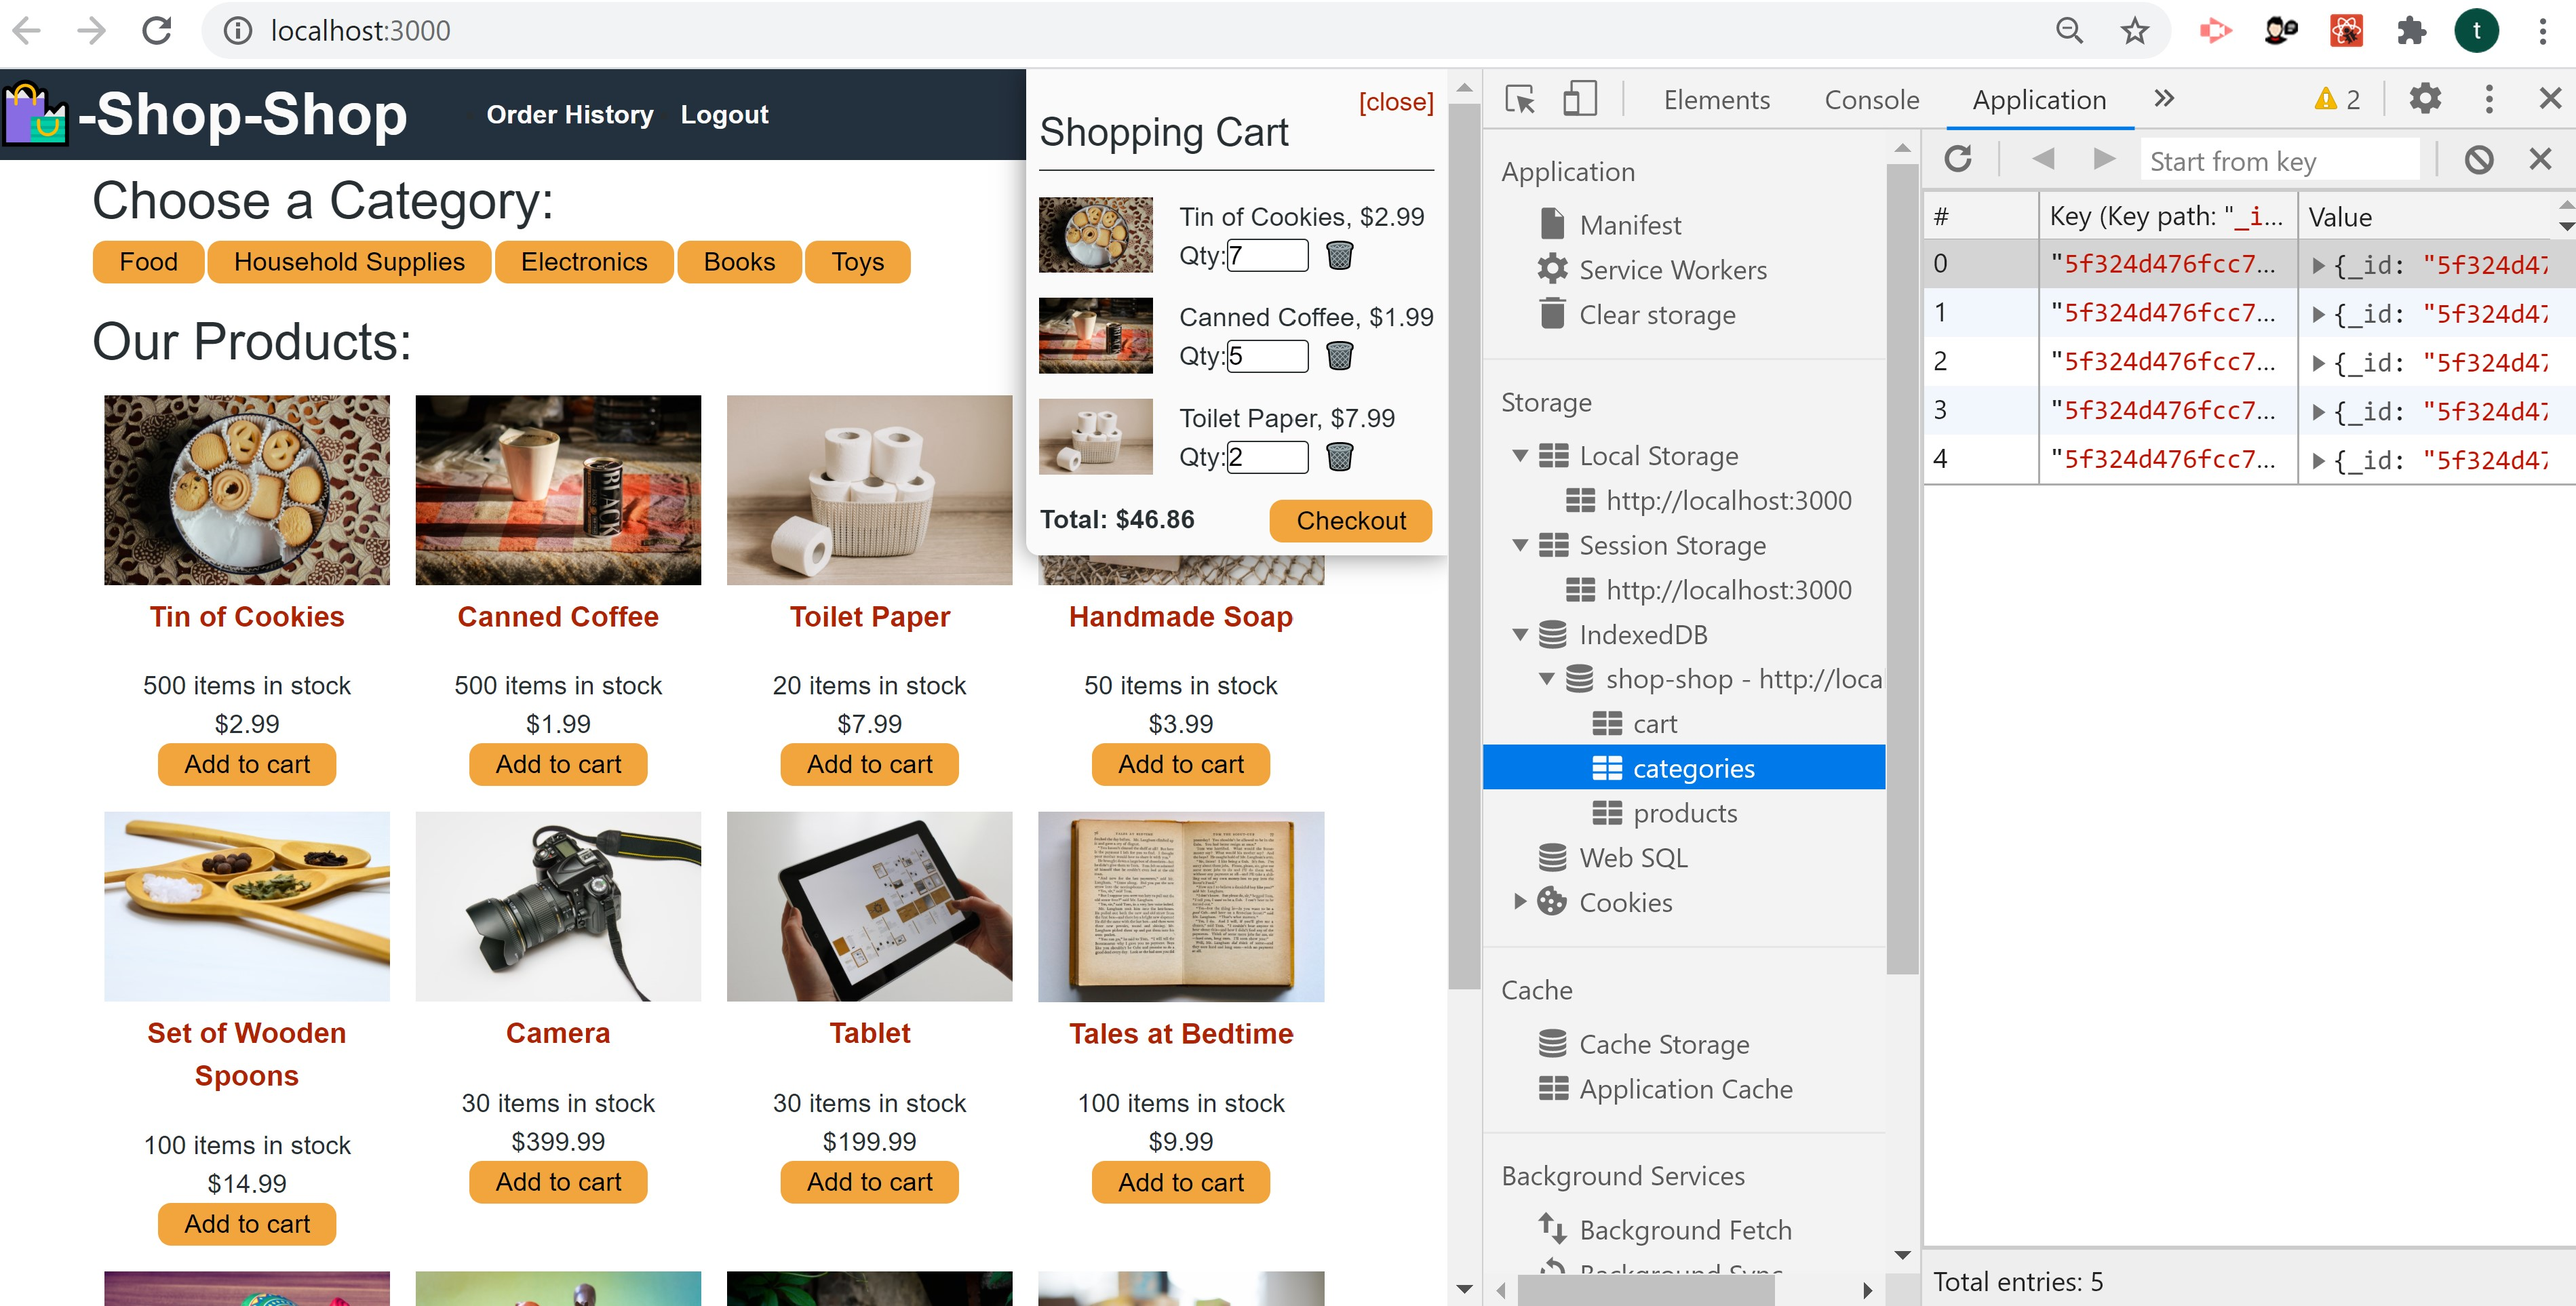
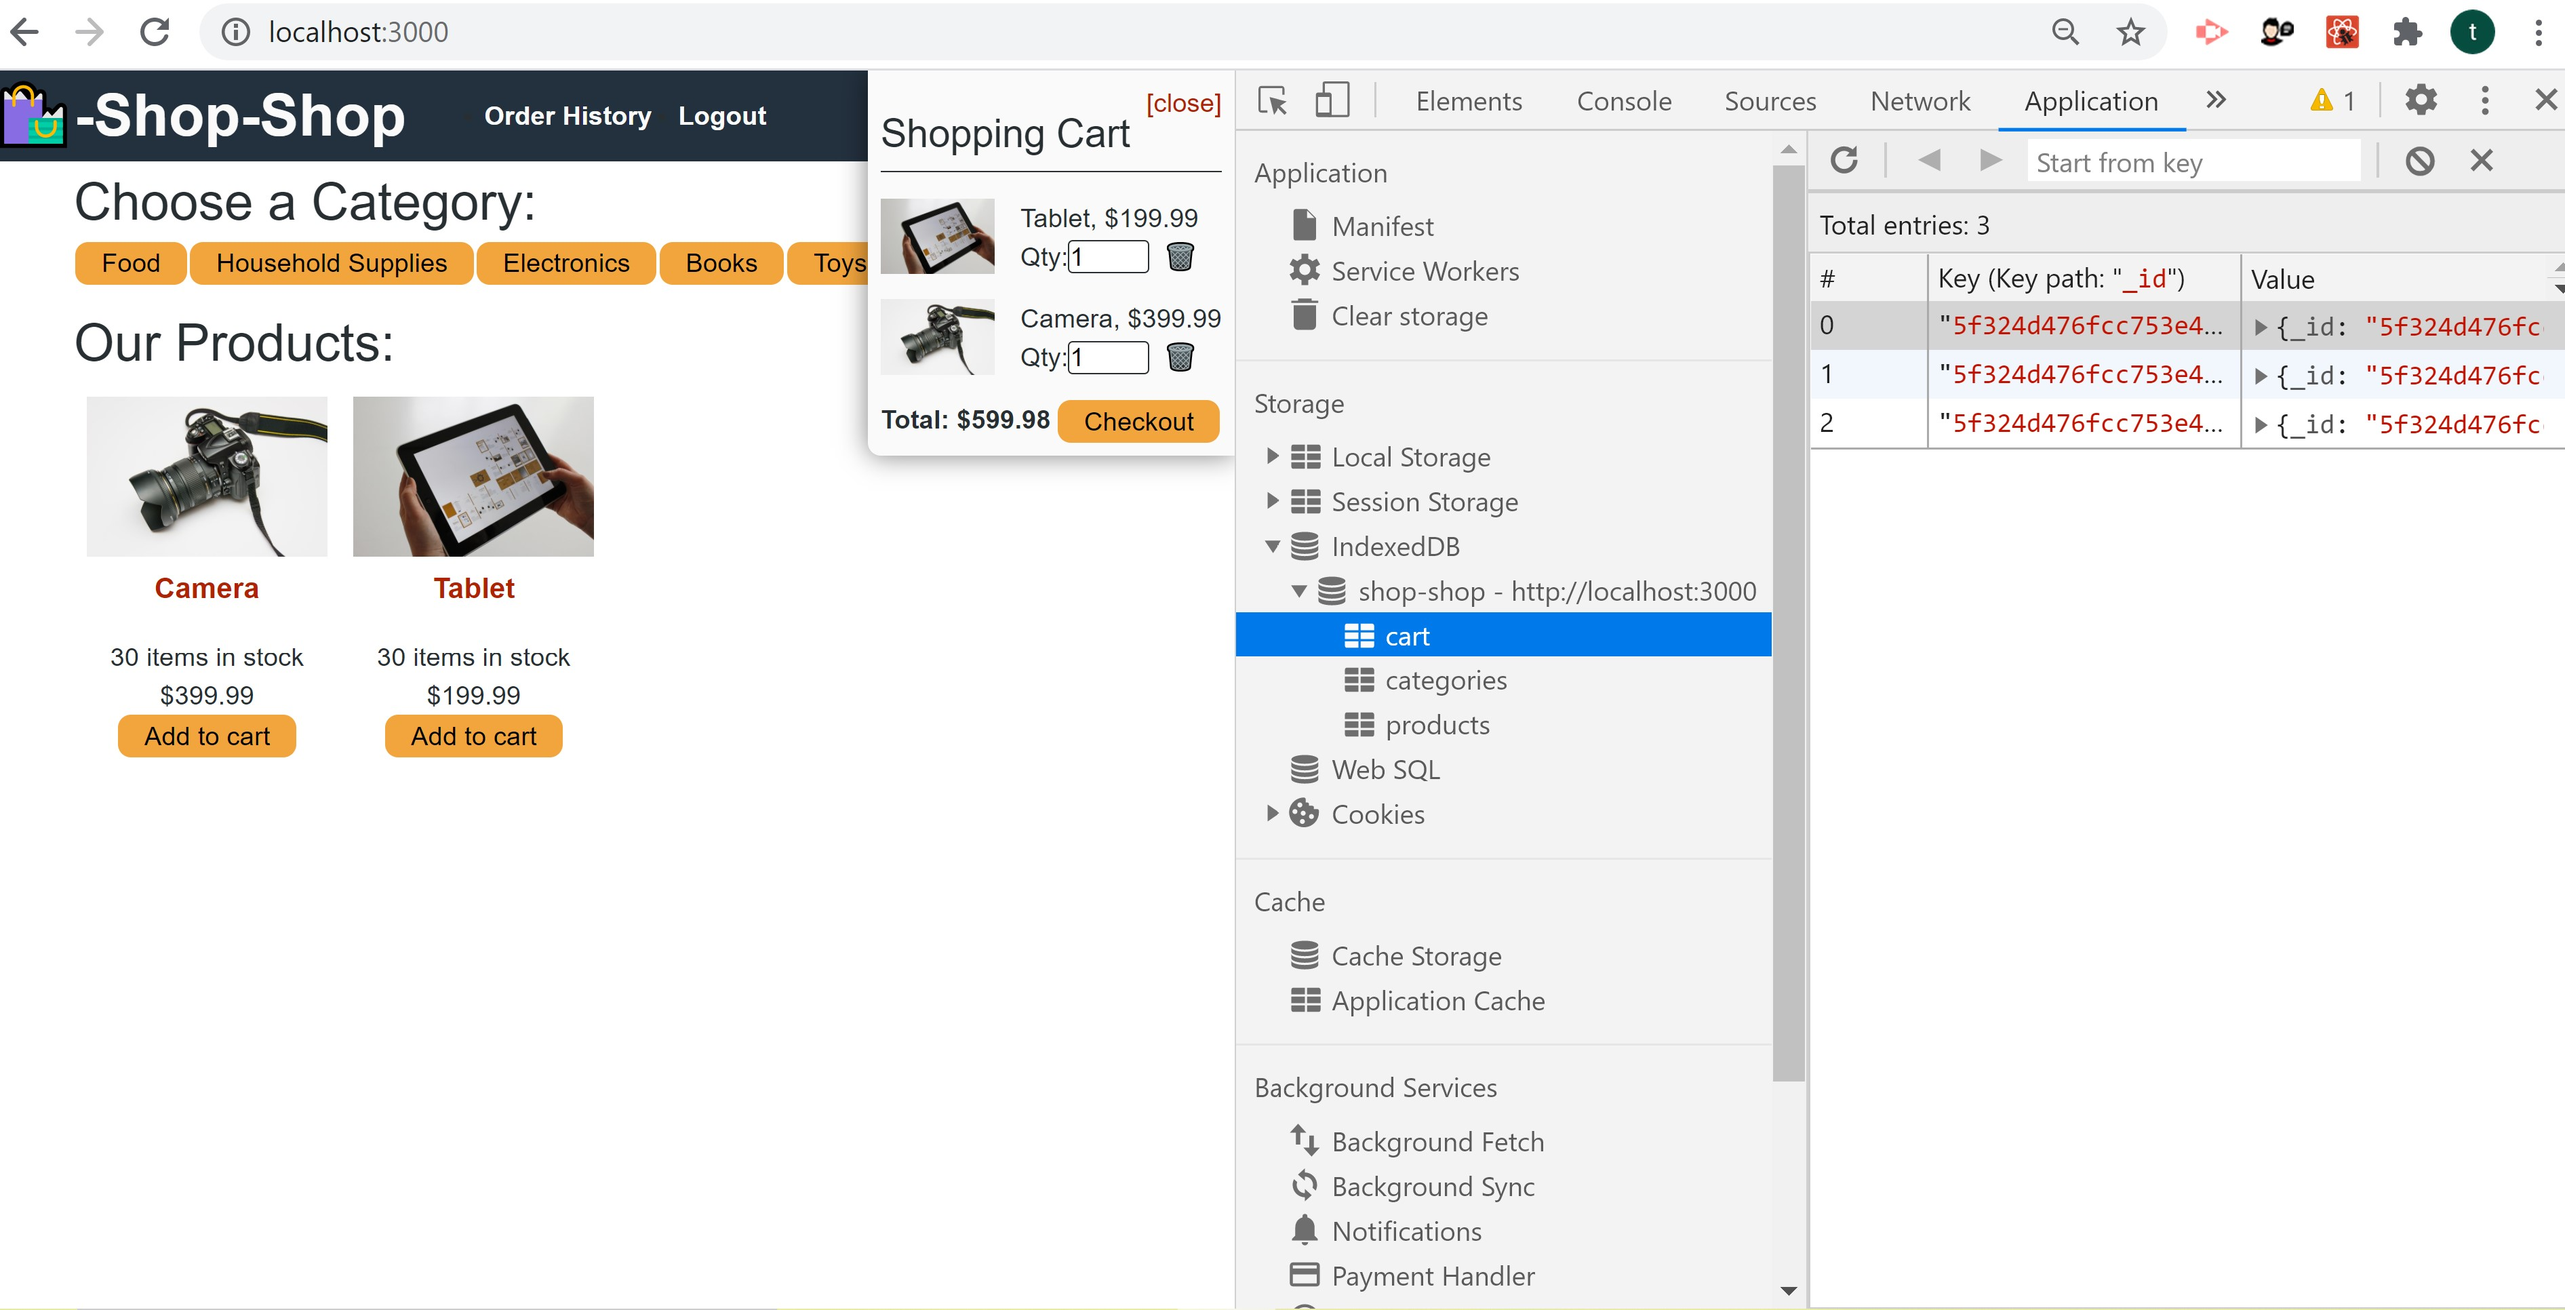
updated cart component with idb

diff --git a/client/src/pages/Detail.js b/client/src/pages/Detail.js
@@ -33,9 +33,9 @@ function Detail() {
     // const { products } = state;
     const { products, cart } = state;
       
-    // -- add to cart
+    // -- add to cart, after adding indexedDB
     const addToCart = () => {
-      const itemInCart = cart.find((cartItem) => cartItem._id === id);
+      const itemInCart = cart.find((cartItem) => cartItem._id === id)
     
       if (itemInCart) {
         dispatch({
@@ -43,21 +43,56 @@ function Detail() {
           _id: id,
           purchaseQuantity: parseInt(itemInCart.purchaseQuantity) + 1
         });
+        // if we're updating quantity, use existing item data and increment purchaseQuantity value by one
+        idbPromise('cart', 'put', {
+          ...itemInCart,
+          purchaseQuantity: parseInt(itemInCart.purchaseQuantity) + 1
+        });
       } else {
         dispatch({
           type: ADD_TO_CART,
           product: { ...currentProduct, purchaseQuantity: 1 }
         });
+        // if product isn't in the cart yet, add it to the current shopping cart in IndexedDB
+        idbPromise('cart', 'put', { ...currentProduct, purchaseQuantity: 1 });
       }
-    };
+    }
 
-    // -- remove from cart
+    // -- previous, add to cart
+          // const addToCart = () => {
+          //   const itemInCart = cart.find((cartItem) => cartItem._id === id);
+          
+          //   if (itemInCart) {
+          //     dispatch({
+          //       type: UPDATE_CART_QUANTITY,
+          //       _id: id,
+          //       purchaseQuantity: parseInt(itemInCart.purchaseQuantity) + 1
+          //     });
+          //   } else {
+          //     dispatch({
+          //       type: ADD_TO_CART,
+          //       product: { ...currentProduct, purchaseQuantity: 1 }
+          //     });
+          //   }
+          // };
+
+    // -- remove from cart, after indexedDB
     const removeFromCart = () => {
       dispatch({
         type: REMOVE_FROM_CART,
         _id: currentProduct._id
-      });
+      });    
+      // upon removal from cart, delete the item from IndexedDB using the `currentProduct._id` to locate what to remove
+      idbPromise('cart', 'delete', { ...currentProduct });
     };
+
+    // -- previous, remove from cart
+        // const removeFromCart = () => {
+        //   dispatch({
+        //     type: REMOVE_FROM_CART,
+        //     _id: currentProduct._id
+        //   });
+        // };
 
   // -- previous, cart
         // const addToCart = () => {

diff --git a/client/src/components/ProductItem/index.js b/client/src/components/ProductItem/index.js
@@ -6,6 +6,9 @@ import { pluralize } from "../../utils/helpers"
 import { useStoreContext } from '../../utils/GlobalState';
 import { ADD_TO_CART, UPDATE_CART_QUANTITY } from '../../utils/actions';
 
+// indexeddb
+import { idbPromise } from "../../utils/helpers";
+
 function ProductItem(item) {
 
   const [ state, dispatch ] = useStoreContext();
@@ -33,24 +36,47 @@ function ProductItem(item) {
     quantity
   } = item;
 
+  // -- after adding indexedDB
   const addToCart = () => {
-      // -- find the cart item with the matching id
-      const itemInCart = cart.find((cartItem) => cartItem._id === _id);
-      // -- if there was a match, call UPDATE with a new purchase quantity
-      if (itemInCart) {
-        dispatch({
-          type: UPDATE_CART_QUANTITY,
-          _id: _id,
-          purchaseQuantity: parseInt(itemInCart.purchaseQuantity) + 1
-        });
-      } else {
-        dispatch({
-          type: ADD_TO_CART,
-          product: { ...item, purchaseQuantity: 1 }
-        });
+    const itemInCart = cart.find((cartItem) => cartItem._id === _id)
+    if (itemInCart) {
+      dispatch({
+        type: UPDATE_CART_QUANTITY,
+        _id: _id,
+        purchaseQuantity: parseInt(itemInCart.purchaseQuantity) + 1
+      });
+      idbPromise('cart', 'put', {
+        ...itemInCart,
+        purchaseQuantity: parseInt(itemInCart.purchaseQuantity) + 1
+      });
+    } else {
+      dispatch({
+        type: ADD_TO_CART,
+        product: { ...item, purchaseQuantity: 1 }
+      });
+      idbPromise('cart', 'put', { ...item, purchaseQuantity: 1 });
     }
-      
-};
+  }
+  
+  // -- previous
+        //   const addToCart = () => {
+        //       // -- find the cart item with the matching id
+        //       const itemInCart = cart.find((cartItem) => cartItem._id === _id);
+        //       // -- if there was a match, call UPDATE with a new purchase quantity
+        //       if (itemInCart) {
+        //         dispatch({
+        //           type: UPDATE_CART_QUANTITY,
+        //           _id: _id,
+        //           purchaseQuantity: parseInt(itemInCart.purchaseQuantity) + 1
+        //         });
+        //       } else {
+        //         dispatch({
+        //           type: ADD_TO_CART,
+        //           product: { ...item, purchaseQuantity: 1 }
+        //         });
+        //     }
+              
+        // };
 
   return (
     <div className="card px-1 py-1">

diff --git a/client/src/components/Cart/index.js b/client/src/components/Cart/index.js
@@ -1,15 +1,33 @@
 // shopping cart
-import React from 'react';
 import CartItem from '../CartItem';
 import Auth from '../../utils/auth';
 import './style.css';
 // import global state and toggle action
 import { useStoreContext } from '../../utils/GlobalState';
-import { TOGGLE_CART } from '../../utils/actions';
+
+// -- replaced with useEffect() hook to check the items saved in the indexedDB
+import React, { useEffect } from "react";
+import { TOGGLE_CART, ADD_MULTIPLE_TO_CART } from "../../utils/actions";
+import { idbPromise } from "../../utils/helpers";
+// -- previous
+// import React from 'react';
+// import { TOGGLE_CART } from '../../utils/actions';
 
 const Cart = () => {
 
   const [state, dispatch] = useStoreContext();
+
+  // indexedDB
+  useEffect(() => {
+        async function getCart() {
+          const cart = await idbPromise('cart', 'get');
+          dispatch({ type: ADD_MULTIPLE_TO_CART, products: [...cart] });
+        };
+      
+        if (!state.cart.length) {
+          getCart();
+        }
+  }, [state.cart.length, dispatch]);
 
   function toggleCart() {
     dispatch({ type: TOGGLE_CART });

diff --git a/README.md b/README.md
@@ -128,7 +128,7 @@ Node.js, JavaScript, ES6, npm MongoDB, Mongoose, Express.js, React.js, GraphQL, 
 - Jest tests
 ![Jest tests](./JestTests-shop-shop.jpg "Jest tests")
 
-- Validate offline functionality is stored in the IndexedDB by starting up DevTools within the Chrome browser (right-click > Inspect or F12), then under the Network tab, set throttling setting to Offline. Then under devTools, Applications, under the Storage > IndexedDB, view the cart, categories, and products key\value pairs listed under the IDB. Alternatively, you may clone the application and after installations have been completed, cd to the client directory, and run npm start, which will only start the client, not the server, to validate the offline functionality.
+- Validate offline functionality is stored in the IndexedDB by starting up DevTools within the Chrome browser (right-click > Inspect or F12), then under the Network tab, change the throttling setting to Offline. Then under devTools, Applications, under the Storage > IndexedDB, view the cart, categories, and products key\value pairs listed under the IDB. Alternatively, you may clone the application and after installations have been completed, cd to the client directory, and run npm start, which will only start the client, not the server, to validate the offline functionality.
 - IndexedDB is storing the data while the application is not connected to the the internet, a setup for performance web application (PWA).
 - ![IDB](./IndexedDB.jpg "IDB").  
 
